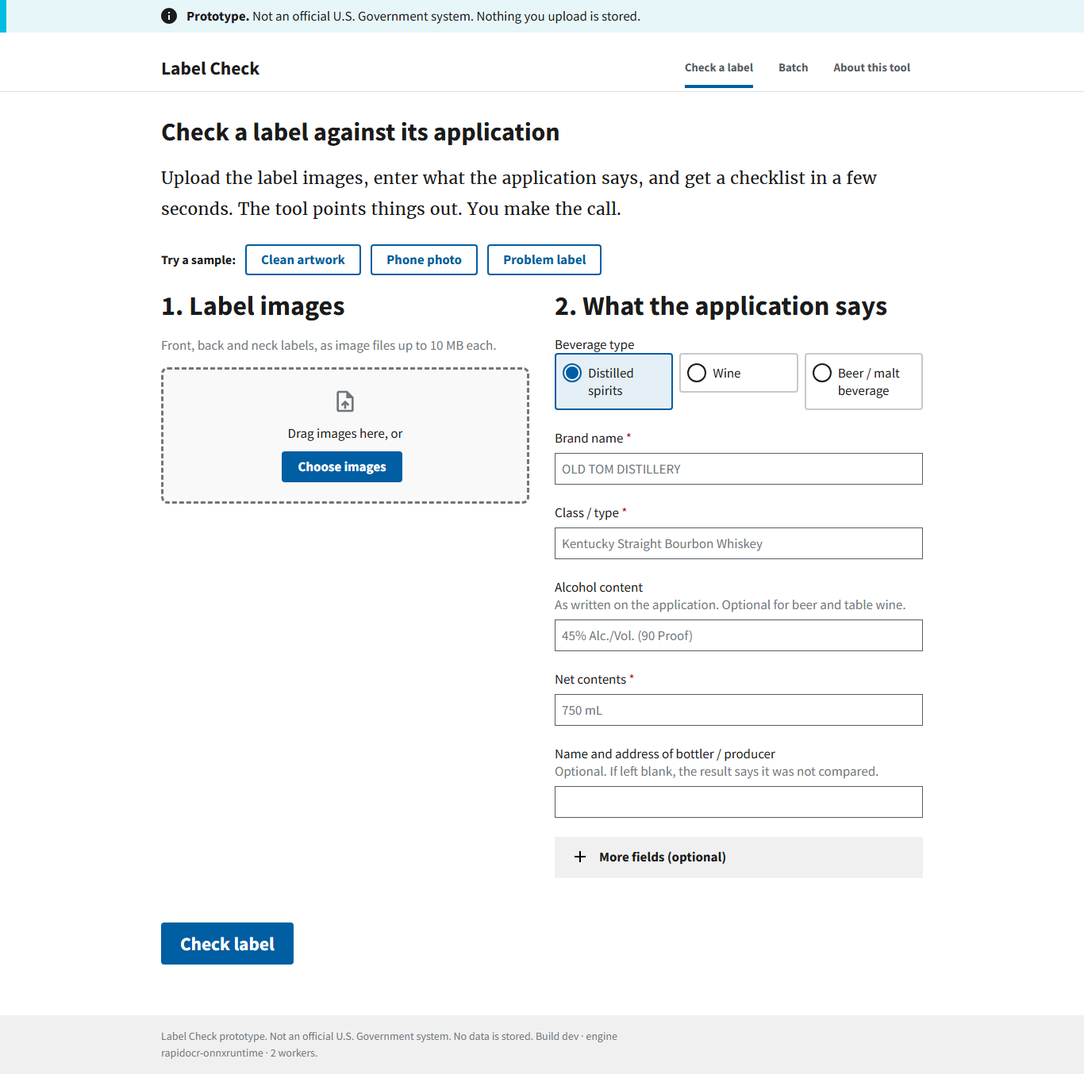
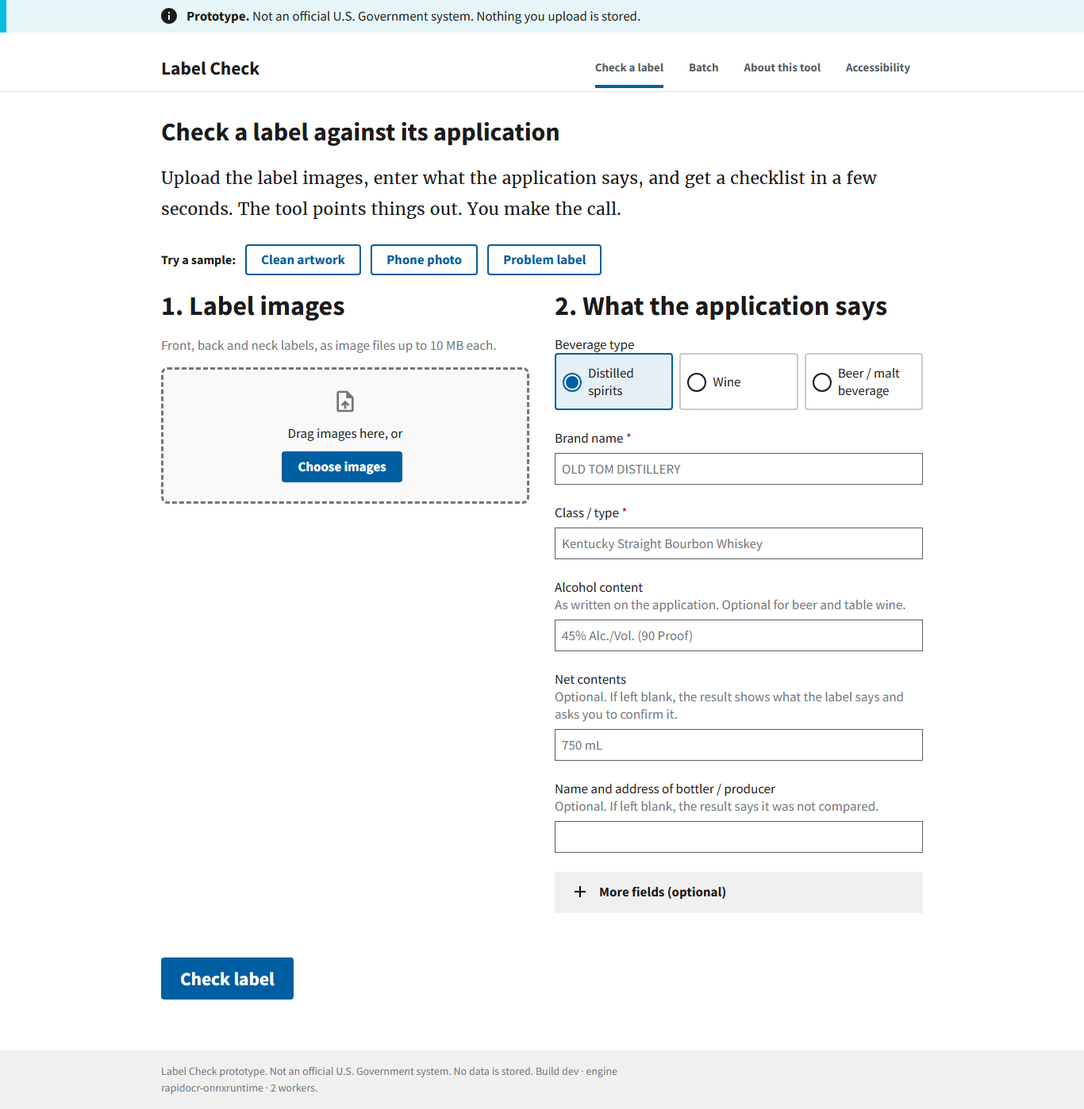
Accessibility page with a Light / Dark / match-my-device display choice; beverage-type tiles share one height (D-042)
The accessibility statement moves out of About into its own page, next to the display choice. The
choice is kept in the browser only and applied before the first paint (static/theme.js). Dark is our
own palette over the U.S. Web Design System, checked screen by screen; the system sets a dark text
color on tables and accordions themselves and paints alert bodies and checkbox wrappers, all
overridden. The single-screen smoke now checks the choice applies, persists and restores.

Claude-Session: https://claude.ai/code/session_01MAN5zL1QJkgZPJ16fWDkkh

diff --git a/app/static/app.css b/app/static/app.css
@@ -38,7 +38,9 @@ main { flex: 1 0 auto; }
 
 .radio-row { display: grid; gap: .5rem; }
 @media (min-width: 40em) { .radio-row { grid-template-columns: repeat(3, 1fr); } }
-.radio-row .usa-radio__input--tile + .usa-radio__label { margin-top: 0; }
+/* the three tiles share one height whatever their label length */
+.radio-row .usa-radio { display: flex; }
+.radio-row .usa-radio__input--tile + .usa-radio__label { margin-top: 0; flex: 1 1 auto; display: flex; flex-direction: column; justify-content: center; }
 
 .submit-row { display: flex; flex-wrap: wrap; align-items: center; gap: 1rem; }
 .status-line { font-weight: 600; color: #005ea2; min-height: 1.5rem; }
@@ -143,3 +145,83 @@ main { flex: 1 0 auto; }
   header, footer, .sample-bar, .submit-row, .usa-site-alert, #dropzone, details { display: none !important; }
   .results { margin-top: 0; }
 }
+
+/* ------------------------------------------------------------------ Dark display (Accessibility page)
+   USWDS is a light design system; this is our own palette over its components, applied by
+   theme.js through html[data-theme="dark"] (a stored choice of Dark, or "match my device" on a
+   dark OS). Colors keep at least 4.5:1 against the surfaces they sit on. */
+:root[data-theme="dark"] { color-scheme: dark; }
+:root[data-theme="dark"] body { background: #0f1216; color: #f0f0f0; }
+:root[data-theme="dark"] h1, :root[data-theme="dark"] h2, :root[data-theme="dark"] h3, :root[data-theme="dark"] h4,
+:root[data-theme="dark"] .usa-legend, :root[data-theme="dark"] .usa-label, :root[data-theme="dark"] .usa-intro,
+:root[data-theme="dark"] .usa-prose, :root[data-theme="dark"] .usa-fieldset, :root[data-theme="dark"] legend { color: inherit; }
+:root[data-theme="dark"] .usa-hint, :root[data-theme="dark"] .text-base, :root[data-theme="dark"] .usa-radio__label-description { color: #b6bcc2; }
+:root[data-theme="dark"] .text-secondary-dark { color: #f2938c; }
+:root[data-theme="dark"] a, :root[data-theme="dark"] .usa-button--unstyled { color: #8fc3ff; }
+:root[data-theme="dark"] a:visited { color: #c1a9ff; }
+:root[data-theme="dark"] .status-line { color: #8fc3ff; }
+:root[data-theme="dark"] .status-line.is-busy::before { border-color: #3d4551; border-top-color: #8fc3ff; }
+
+/* header, banner, footer */
+:root[data-theme="dark"] .usa-header, :root[data-theme="dark"] .usa-nav, :root[data-theme="dark"] .usa-navbar { background: #0f1216; }
+:root[data-theme="dark"] .usa-header--basic .usa-navbar, :root[data-theme="dark"] .usa-header--basic .usa-nav { border-color: #3d4551; }
+:root[data-theme="dark"] .usa-logo a, :root[data-theme="dark"] .usa-nav__primary .usa-nav-link, :root[data-theme="dark"] .usa-nav__primary .usa-nav-link span { color: #f0f0f0; }
+:root[data-theme="dark"] .usa-nav__primary .usa-nav-link:hover span, :root[data-theme="dark"] .usa-nav__primary .usa-current span { border-bottom-color: #8fc3ff; }
+:root[data-theme="dark"] .usa-nav__close img, :root[data-theme="dark"] .usa-accordion__button { filter: invert(1) hue-rotate(180deg); }
+:root[data-theme="dark"] .usa-site-alert--info .usa-alert { background: #16232f; border-left-color: #8fc3ff; }
+:root[data-theme="dark"] .usa-footer, :root[data-theme="dark"] .usa-footer__primary-section { background: #1a1f24; color: #f0f0f0; }
+
+/* alerts (verdict, errors, notices) keep their colored edge on a raised dark surface */
+:root[data-theme="dark"] .usa-alert { background-color: #1a1f24; color: #f0f0f0; }
+:root[data-theme="dark"] .usa-alert__heading, :root[data-theme="dark"] .usa-alert__text { color: inherit; }
+
+/* forms */
+:root[data-theme="dark"] .usa-input, :root[data-theme="dark"] .usa-select, :root[data-theme="dark"] .usa-textarea,
+:root[data-theme="dark"] input[type=text], :root[data-theme="dark"] input[type=search], :root[data-theme="dark"] select,
+:root[data-theme="dark"] textarea, :root[data-theme="dark"] .batch-table .note-input { background-color: #1a1f24; color: #f0f0f0; border-color: #b6bcc2; }
+:root[data-theme="dark"] .usa-input::placeholder, :root[data-theme="dark"] .note-input::placeholder { color: #9da3a9; }
+:root[data-theme="dark"] .usa-radio__input--tile + .usa-radio__label { background: #1a1f24; color: #f0f0f0; border-color: #565c65; }
+:root[data-theme="dark"] .usa-radio__input--tile:checked + .usa-radio__label { background: #16232f; border-color: #8fc3ff; }
+:root[data-theme="dark"] .usa-checkbox__label, :root[data-theme="dark"] .usa-radio__label { color: #f0f0f0; }
+:root[data-theme="dark"] .usa-button--outline { color: #8fc3ff; box-shadow: inset 0 0 0 2px #8fc3ff; background: transparent; }
+:root[data-theme="dark"] .usa-button--outline:hover, :root[data-theme="dark"] .usa-button--outline:focus { color: #cfe4ff; box-shadow: inset 0 0 0 2px #cfe4ff; background: transparent; }
+:root[data-theme="dark"] .usa-button--outline:disabled { color: #71767a; box-shadow: inset 0 0 0 2px #71767a; }
+:root[data-theme="dark"] .usa-accordion__content { background: transparent; color: inherit; }
+:root[data-theme="dark"] .dropzone { background: #1a1f24; border-color: #9da3a9; }
+:root[data-theme="dark"] .dropzone.is-dragover { background: #16232f; border-color: #8fc3ff; }
+:root[data-theme="dark"] .file-list li { background: #1a1f24; border-color: #3d4551; }
+:root[data-theme="dark"] .file-list img { background: #22282e; }
+:root[data-theme="dark"] .file-list .file-meta { color: #b6bcc2; }
+
+/* results */
+:root[data-theme="dark"] .usa-table th, :root[data-theme="dark"] .usa-table thead th { background: #22282e; color: #f0f0f0; border-color: #3d4551; }
+:root[data-theme="dark"] .usa-table td { background: transparent; color: inherit; border-color: #3d4551; }
+:root[data-theme="dark"] .checklist th, :root[data-theme="dark"] .checklist td { border-color: #3d4551; }
+:root[data-theme="dark"] .checklist th { color: #b6bcc2; }
+:root[data-theme="dark"] .checklist tbody tr:hover, :root[data-theme="dark"] .checklist tbody tr:focus-within { background: #22282e; }
+:root[data-theme="dark"] .checklist tbody tr.is-active { background: #16232f; box-shadow: inset 4px 0 0 #8fc3ff; }
+:root[data-theme="dark"] .checklist .check-note { color: #d0d5da; }
+:root[data-theme="dark"] .checklist .rule, :root[data-theme="dark"] .label-figure figcaption { color: #9da3a9; }
+:root[data-theme="dark"] .warning-card { background: #1a1f24; border-color: #3d4551; }
+:root[data-theme="dark"] .warning-card .found-text { background: #22282e; }
+:root[data-theme="dark"] .label-stage { background: #22282e; border-color: #3d4551; }
+:root[data-theme="dark"] .overlay polygon { stroke: #8fc3ff; fill: rgba(143, 195, 255, .12); }
+:root[data-theme="dark"] .overlay polygon.is-active { stroke: #ffbe2e; fill: rgba(255, 190, 46, .35); }
+
+/* batch */
+:root[data-theme="dark"] .progress__bar { background: #3d4551; }
+:root[data-theme="dark"] .summary-tile { background: #1a1f24; border-color: #3d4551; }
+:root[data-theme="dark"] .summary-tile .lbl, :root[data-theme="dark"] .batch-table th, :root[data-theme="dark"] .batch-table .files { color: #b6bcc2; }
+:root[data-theme="dark"] .batch-table th, :root[data-theme="dark"] .batch-table td { border-color: #3d4551; }
+:root[data-theme="dark"] .batch-table .app-brand { color: #d0d5da; }
+:root[data-theme="dark"] .batch-table tr.detail-row td { background: #1a1f24; }
+:root[data-theme="dark"] .batch-table tr.is-error td { background: #3a1f1d; }
+:root[data-theme="dark"] .batch-table .decision-btns .usa-button.is-on { background: #f0f0f0; color: #0f1216; box-shadow: none; }
+:root[data-theme="dark"] .detail-panel { color: inherit; }
+/* the design system sets a dark text color on tables and accordions themselves, and paints alert
+   bodies; those must follow the theme too */
+:root[data-theme="dark"] .usa-table, :root[data-theme="dark"] .usa-accordion { color: #f0f0f0; }
+:root[data-theme="dark"] .usa-accordion--bordered .usa-accordion__content { border-color: #3d4551; }
+:root[data-theme="dark"] .usa-alert__body, :root[data-theme="dark"] .usa-site-alert .usa-alert__body { background-color: transparent; color: #f0f0f0; }
+:root[data-theme="dark"] .usa-alert__body::before { filter: invert(1); }
+:root[data-theme="dark"] .usa-checkbox, :root[data-theme="dark"] .usa-radio { background: transparent; }

diff --git a/app/static/index.html b/app/static/index.html
@@ -3,10 +3,11 @@
 <head>
   <meta charset="utf-8">
   <meta name="viewport" content="width=device-width, initial-scale=1">
-  <meta name="color-scheme" content="light">
+  <meta name="color-scheme" content="light dark">
   <title>Label Check (prototype)</title>
   <meta name="description" content="Prototype: checks alcohol beverage label artwork against COLA application data. The tool recommends; the compliance agent decides.">
   <link rel="icon" href="data:,">
+  <script src="/static/theme.js"></script>
   <link rel="stylesheet" href="/static/uswds/css/uswds.min.css">
   <link rel="stylesheet" href="/static/app.css">
   <script src="/static/uswds/js/uswds-init.min.js"></script>
@@ -36,6 +37,7 @@
           <li class="usa-nav__primary-item"><a href="#check" class="usa-nav-link usa-current" data-view="check"><span>Check a label</span></a></li>
           <li class="usa-nav__primary-item"><a href="#batch" class="usa-nav-link" data-view="batch"><span>Batch</span></a></li>
           <li class="usa-nav__primary-item"><a href="#about" class="usa-nav-link" data-view="about"><span>About this tool</span></a></li>
+          <li class="usa-nav__primary-item"><a href="#accessibility" class="usa-nav-link" data-view="accessibility"><span>Accessibility</span></a></li>
         </ul>
       </nav>
     </div>
@@ -250,10 +252,34 @@
         </ul>
         <h2>How it decides</h2>
         <p><strong>Match</strong> means the label says the same thing, allowing for letter case and accents. <strong>Needs review</strong> means it is close but you should look, which is usually OCR noise. <strong>Mismatch</strong> and <strong>Not found</strong> mean the label disagrees or the item could not be read. For the warning statement, only an exact match passes.</p>
-        <h2>Accessibility</h2>
-        <p>Built with the U.S. Web Design System. Target: WCAG 2.1 AA and Section 508. Every status is shown as an icon, a word and a color, never a color alone. The page works with keyboard only, at 200% zoom, and in Windows High Contrast Mode. If something does not work for you, please say so in the project repository.</p>
         <h2>For engineers</h2>
-        <p>API description: <a href="/api/v1/openapi.json">/api/v1/openapi.json</a>. Health and capacity: <a href="/api/v1/health">/api/v1/health</a>. Source code and documentation: <a id="repo-link" href="#">repository</a>.</p>
+        <p>API description: <a href="/api/v1/openapi.json">/api/v1/openapi.json</a>. Health and capacity: <a href="/api/v1/health">/api/v1/health</a>. Source code and documentation: <a id="repo-link" href="https://github.com/danielrcooley/ttb-label-check">repository</a>.</p>
+      </div>
+    </section>
+
+    <!-- ============================================================ Accessibility -->
+    <section id="view-accessibility" class="usa-section padding-top-4" data-view-panel="accessibility" hidden>
+      <div class="grid-container usa-prose">
+        <h1 class="margin-top-0">Accessibility</h1>
+        <fieldset class="usa-fieldset">
+          <legend class="usa-legend usa-legend--large">Display</legend>
+          <p class="usa-hint" id="theme-hint">Your choice is kept in this browser only. Nothing about labels or applications is stored anywhere.</p>
+          <div class="radio-row" role="group" aria-labelledby="theme-legend" aria-describedby="theme-hint">
+            <span id="theme-legend" class="usa-sr-only">Display theme</span>
+            <div class="usa-radio"><input class="usa-radio__input usa-radio__input--tile" id="theme-light" type="radio" name="theme" value="light" checked><label class="usa-radio__label" for="theme-light">Light<span class="usa-radio__label-description">The standard look</span></label></div>
+            <div class="usa-radio"><input class="usa-radio__input usa-radio__input--tile" id="theme-dark" type="radio" name="theme" value="dark"><label class="usa-radio__label" for="theme-dark">Dark<span class="usa-radio__label-description">Light text on a dark page</span></label></div>
+            <div class="usa-radio"><input class="usa-radio__input usa-radio__input--tile" id="theme-system" type="radio" name="theme" value="system"><label class="usa-radio__label" for="theme-system">Match my device<span class="usa-radio__label-description">Follows the operating system's setting</span></label></div>
+          </div>
+        </fieldset>
+        <h2>How this tool is built to be usable</h2>
+        <ul>
+          <li>Built with the U.S. Web Design System. Target: WCAG 2.1 AA and Section 508.</li>
+          <li>Every status is an icon, a word and a color, never a color alone. A pressed button carries a check mark in its text.</li>
+          <li>Works with the keyboard alone, at 200 percent zoom, on a phone, and in Windows contrast themes; progress and results are announced to screen readers.</li>
+          <li>No time limits; the only motion is a progress spinner, which stops when your system asks for reduced motion.</li>
+        </ul>
+        <h2>If something does not work for you</h2>
+        <p>Please say so in the <a id="repo-link-a11y" href="https://github.com/danielrcooley/ttb-label-check">project repository</a>, with the page, the browser and what happened.</p>
       </div>
     </section>
   </main>

diff --git a/app/static/app.js b/app/static/app.js
@@ -28,7 +28,17 @@ function showView(name) {
     if (a.dataset.view === name) a.setAttribute("aria-current", "page"); else a.removeAttribute("aria-current");
   });
 }
-function routeFromHash() { showView(["check", "batch", "about"].includes(location.hash.slice(1)) ? location.hash.slice(1) : "check"); }
+function routeFromHash() { showView(["check", "batch", "about", "accessibility"].includes(location.hash.slice(1)) ? location.hash.slice(1) : "check"); }
+
+// ------------------------------------------------------------------ display theme
+function wireTheme() {
+  // theme.js applied the stored choice before the first paint; here the radios reflect it and change it.
+  const choice = document.documentElement.dataset.themeChoice || "light";
+  document.querySelectorAll("input[name=theme]").forEach((r) => {
+    r.checked = r.value === choice;
+    r.addEventListener("change", () => { if (window.lcApplyTheme) window.lcApplyTheme(r.value); });
+  });
+}
 
 // ------------------------------------------------------------------ files
 function setStatus(text, busy = false) {
@@ -199,6 +209,7 @@ async function runCheck() {
 async function boot() {
   await loadSprite();
   wireDropzone();
+  wireTheme();
   routeFromHash();
   window.addEventListener("hashchange", routeFromHash);
   $("#check-form").addEventListener("submit", (e) => { e.preventDefault(); runCheck(); });

diff --git a/app/static/theme.js b/app/static/theme.js
@@ -1,0 +1,28 @@
+// Display theme, applied before the first paint so a dark choice never flashes light.
+// The choice ("light", "dark" or "system") lives in this browser's localStorage only; when storage
+// is unavailable (private windows, locked-down browsers) the page simply stays light.
+(function () {
+  var KEY = "labelcheck-theme";
+  function stored() {
+    try { return localStorage.getItem(KEY) || "light"; } catch (e) { return "light"; }
+  }
+  function resolve(choice) {
+    if (choice === "system") {
+      return window.matchMedia && window.matchMedia("(prefers-color-scheme: dark)").matches ? "dark" : "light";
+    }
+    return choice === "dark" ? "dark" : "light";
+  }
+  function apply(choice) {
+    var c = choice || stored();
+    document.documentElement.dataset.themeChoice = c;
+    document.documentElement.dataset.theme = resolve(c);
+  }
+  apply();
+  if (window.matchMedia) {
+    window.matchMedia("(prefers-color-scheme: dark)").addEventListener("change", function () { apply(); });
+  }
+  window.lcApplyTheme = function (choice) {
+    if (choice) { try { localStorage.setItem(KEY, choice); } catch (e) { /* stays for this page only */ } }
+    apply(choice);
+  };
+})();

diff --git a/tests/browser/smoke_single.py b/tests/browser/smoke_single.py
@@ -48,7 +48,7 @@ def main() -> int:
         page.on("pageerror", lambda e: problems.append(f"pageerror: {e}"))
         page.on("requestfailed", lambda r: problems.append(f"requestfailed: {r.url} {r.failure}"))
         page.on("response", lambda r: problems.append(f"http {r.status}: {r.url}") if r.status >= 400 else None)
-        page.on("dialog", lambda d: d.dismiss())
+        page.on("dialog", lambda d: d.accept() if d.type == "beforeunload" else d.dismiss())  # leave-page prompt on reload
         page.goto(BASE + "/", wait_until="networkidle")
         print("title:", page.title())
         page.screenshot(path=f"{OUT}/ui_home.png", full_page=True)
@@ -69,6 +69,26 @@ def main() -> int:
             page.screenshot(path=f"{OUT}/ui_{sample}.png", full_page=True)
             page.locator(".checklist tbody tr").first.click()
             print("   active polygons after row click:", page.locator(".overlay polygon.is-active").count())
+
+        # Accessibility page: the display choice applies at once, survives a reload, and restores.
+        page.click("a[data-view=accessibility]")
+        page.wait_for_selector("#view-accessibility:not([hidden])", timeout=5000)
+        page.click("label[for=theme-dark]")
+        if page.get_attribute("html", "data-theme") != "dark":
+            problems.append("theme: Dark did not apply")
+        page.reload(wait_until="networkidle")
+        if page.get_attribute("html", "data-theme") != "dark" or not page.is_checked("#theme-dark"):
+            problems.append("theme: Dark did not persist across a reload")
+        page.click("a[data-view=check]")
+        page.click("[data-sample=problem]")
+        page.wait_for_selector("#status:not(.is-busy)", timeout=60000)
+        page.wait_for_selector("#results:not([hidden]) .verdict", timeout=60000)
+        page.screenshot(path=f"{OUT}/ui_dark.png", full_page=True)
+        page.click("a[data-view=accessibility]")
+        page.click("label[for=theme-light]")
+        if page.get_attribute("html", "data-theme") != "light":
+            problems.append("theme: Light did not restore")
+        print("theme: dark applied, persisted, restored")
 
         mobile = browser.new_context(
             viewport={"width": 390, "height": 844}, device_scale_factor=2, bypass_csp=True

diff --git a/docs/DECISIONS.md b/docs/DECISIONS.md
@@ -47,3 +47,4 @@ how it was caught. Owner of every decision: Daniel R. Cooley. Builder: Claude Co
 | D-039 | 2026-09-04 | From review 005 and the measurements of the deployed real-label build: (a) the warning re-read runs for interactive requests only, as one extra round of reads in parallel across the workers, at most one read per worker: the images turned 270 then 90 degrees (270 unrolls a statement printed up the right edge, which three of the four such labels in the real sample do) and, for large artwork, once at full resolution (that read first when the heading was seen but the body was not); the orientations the rotation retry already read are used first and cost nothing; batch requests read every image exactly once. (b) "Exact" for the warning compares the sequence of words and punctuation marks, ignoring letter case and spacing next to punctuation, so a word boundary moved between letters ("womens hould") can never pass. (c) A bottler match whose corporate forms differ on the two sides ("LLC" against "Inc.") is Needs review. (d) In the statement finder a vertical strip and a horizontal line are never one column, and a rescued statement replaces what the kept read had in the same place. **(corrected)** | Measured on the deployed build: the batch screen reads each image before it knows its application, so every front label (no statement by design) paid three extra reads and single-image throughput fell from 0.98 to 0.23 images per second; a front-only upload took 8.6 s against a five-second requirement (`docs/LOADTEST.md`, af9e239 rows). The reviewer showed that deleting every space let "womens hould" pass as exact, that folding "LLC" and "Inc." away could pass two different legal entities, and that the re-read's outcome depended on server load. The fake-engine tests for the new round exposed (d): the strips of a sideways statement crossing an upright label's brand line were spliced together. A bound on reads was preferred to a clock budget because a clock would make the verdict depend on the machine's speed. | `docs/reviews/005-real-labels.*`; `docs/LOADTEST.md`; `tests/unit/test_services.py`, `test_warning.py`, `test_parsers.py`. |
 | D-040 | 2026-09-04 | Net contents may be left blank in the application (form and spreadsheet). A blank is Needs review: the result shows the net contents read from the label with its crop and asks the agent to confirm it; it can never be Ready on its own. Alcohol content was already optional; brand, class/type and beverage type stay required. | Hands-on testing with the real registry corpus: TTB's COLA form (F 5100.31) carries no net contents field, so a spreadsheet exported from real applications had every row rejected ("net_contents: Field required") and the batch screen then showed the wrong message ("Add images first", fixed in the same change). The brief's sample application lists net contents, so the comparison stays exactly as it was whenever a value is given. | `tests/unit/test_parsers.py` (blank net contents), `tests/unit/test_csvio.py`; `docs/EVAL_REAL.md` (the form's fields). |
 | D-041 | 2026-09-04 | Which findings may fail an application, decided against real application data (consult 006): (a) the bottler check takes the registered line apart (trade name, legal name, the name marked as used on the label, city, state, ZIP), tries the whole line and each name folded, and uses the city and state as corroboration: name and address read is a match, name only is Needs review, a different name on the label's own "bottled by" line or nothing resembling the name is Needs review with the reason; (b) class/type is Match when the text agrees and otherwise Needs review, never an issue; (c) an alcohol statement that is required but was not read, and a country of origin that was not read, are Needs review; an origin statement naming a different country, and numeric disagreements in alcohol or net contents, stay issues; (d) brand and the warning are unchanged; (e) from the first hands-on look at the result panels: a registered name printed whole inside the label's bottler line, with its city and state, is a match rather than a "close match"; when nothing on the label resembles the class description no "closest text" is shown; and digits from a barcode read glued onto a word of the warning statement ('or' read as 'OR88 186"223932') are noise for review, not a wording issue. | 146 real applications with a spreadsheet built from the registry's own fields came back 144 "Issues found": the registered bottler line (two names and a street address) never matched a label that prints "BREWED BY GREEN CHEEK BEER CO." and a city (141 rows), and the registry's class descriptions ("TABLE WHITE WINE") never match the designation a label prints ("Pinot Grigio") (80 rows). Neither is a proven defect: the applicant and the lawful bottler may differ, the tool has no table of permitted designations, and a line the engine did not read is a heuristic miss. The rule in AGENTS.md is that heuristic findings are Needs review, never Fail, and only clear text or numeric differences fail; the reviewer's consult (docs/reviews/006) reached the same matrix. The blanket "not found is an issue" rule was the brief's synthetic sample talking. | `docs/reviews/006-registry-fields.*`; `tests/unit/test_parsers.py` (bottler four ways, class, alcohol, origin), `tests/unit/test_normalize.py` (registered line parsing); `docs/EVAL_REAL.md`. |
+| D-042 | 2026-09-04 | An Accessibility page of its own, reached from the main navigation, holding the accessibility statement (moved out of About) and a display choice: Light (the default and the standard look), Dark (our own palette over the U.S. Web Design System, which has none), or match the device. The choice is kept in the browser's local storage only, applied before the first paint, and the page says so; nothing about labels or applications is stored. The beverage-type tiles on the single screen share one height. | The author, who has low vision and tests in a Windows contrast theme, asked for it: the target users are agents over fifty, and a dark display is the first accommodation many of them reach for. Light stays the default because the reviewers evaluate the design system's look and the dark palette is ours; the choice is one click away and persists. Uneven tiles were a visible rough edge on the first screen. | `app/static/theme.js`, `app/static/app.css` (dark block); `tests/browser/smoke_single.py`. |

diff --git a/README.md b/README.md
@@ -36,7 +36,7 @@ Each one is met by design and checked by a test or a measurement, not by a claim
 | Emphasized in the brief | What this prototype does | Evidence |
 |---|---|---|
 | "If we can't get results back in about **5 seconds**, nobody's going to use it." | OCR runs in-process on a small neural model; the images of one application are read in parallel; every result prints its own timing. | Local: front+back application median 2.5 s, p95 3.1 s on two workers. Deployed (Azure, 2 vCPU): one person, front+back, median 2.7 s, p95 2.8 s over 20 runs; a front label alone, which triggers the sideways re-read, median 3.2 s, p95 3.3 s; two people submitting at once, p95 5.0 s (see [Measured](#measured)) |
-| "something **my mother could figure out**" | One screen, two numbered steps, one big button, three one-click samples, U.S. Web Design System, statuses as icon + word + color, keyboard and screen-reader friendly, pressed buttons marked in text as well as color so Windows contrast themes show them. | Observed usability test: _USABILITY_RESULT_ |
+| "something **my mother could figure out**" | One screen, two numbered steps, one big button, three one-click samples, U.S. Web Design System, statuses as icon + word + color, keyboard and screen-reader friendly, pressed buttons marked in text as well as color so Windows contrast themes show them, and an Accessibility page with the accessibility statement and a Light / Dark / match-my-device display choice kept in the browser only. | Observed usability test: _USABILITY_RESULT_ |
 | "**handle batch uploads**" (200 to 300 at once) | Batch screen: a folder of images plus a spreadsheet; rows stream in; filters, decisions, notes, export; pairing by CSV column or filename prefix; leftovers assigned by hand. | 300 images (150 applications) through the real screen with zero errors: 275 s locally, 315 s on the deployed app from a laptop browser: [docs/LOADTEST.md](docs/LOADTEST.md) |
 | The warning "has to be **exact**. Like, word-for-word" | Every word and punctuation mark compared with 27 CFR 16.21 (text verified from the eCFR API), ignoring only letter case and spacing next to punctuation. Only an exact match passes. Punctuation and single-character differences are "Needs review" with a diff (usually OCR noise); a changed, added or missing word is a mismatch. | `tests/unit/test_warning.py` golden cases; the "Problem label" sample |
 
